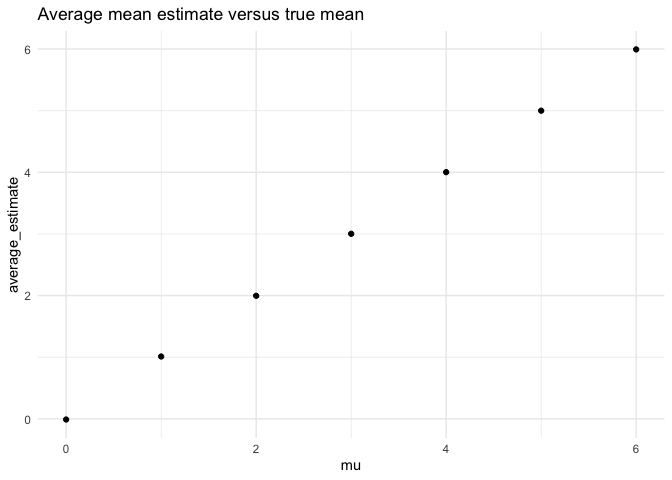
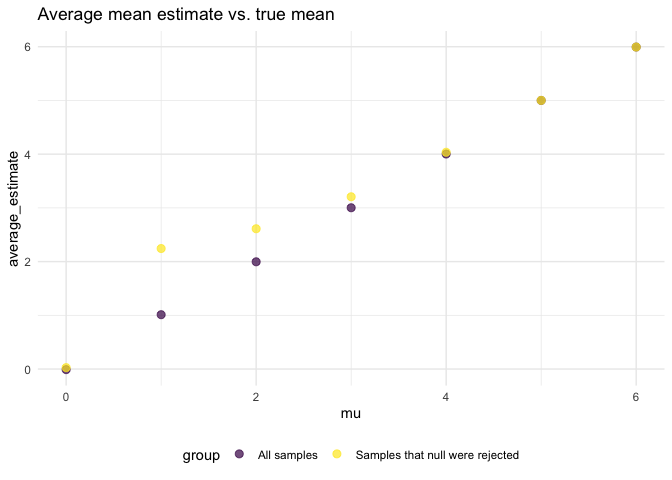
problem 3 - overlay the last two plots, add descriptions and explanation.

diff --git a/p8105_hw5_ym2770.md b/p8105_hw5_ym2770.md
@@ -175,7 +175,7 @@ sim_df =
   bind_rows(sim_repeat_df)
 ```
 
-plot of null hypothesis rejection proportion against mu
+Plot null hypothesis rejection proportion against mu
 
 ``` r
 sim_df %>% 
@@ -191,37 +191,58 @@ sim_df %>%
 
 ![](p8105_hw5_ym2770_files/figure-gfm/unnamed-chunk-11-1.png)<!-- -->
 
-A plot showing the average estimate of mean against the true mean
+Power increases while effect size increases, generating a sigmoidal
+curve.
+
+Plot the average estimate of mean against the true mean, overlaying the
+plot showing the the comparison only in samples for which the null was
+rejected
 
 ``` r
-sim_df %>% 
+df1 = 
+  sim_df %>% 
   group_by(mu) %>% 
-  summarise(average_estimate = mean(estimate)) %>% 
-  ggplot(aes(x = mu, y = average_estimate)) +
-  geom_point() +
-  labs(title = "Average mean estimate versus true mean")
+  summarise(
+    average_estimate = mean(estimate),
+    group = "All samples"
+    ) 
 ```
 
     ## `summarise()` ungrouping output (override with `.groups` argument)
+
+``` r
+df2 = 
+  sim_df %>% 
+  filter(p.value < 0.05) %>% 
+  group_by(mu) %>% 
+  summarise(
+    average_estimate = mean(estimate),
+    group = "Samples that null were rejected"
+    )
+```
+
+    ## `summarise()` ungrouping output (override with `.groups` argument)
+
+``` r
+df1 %>% 
+  rbind(df2) %>% 
+  ggplot(aes(x = mu, y = average_estimate, color = group)) +
+  geom_point(alpha = .7, size = 2.5) +
+  labs(title = "Average mean estimate vs. true mean")
+```
 
 ![](p8105_hw5_ym2770_files/figure-gfm/unnamed-chunk-12-1.png)<!-- -->
 
-A plot showing the average estimate of mean against the true mean only
-in samples for which the null was rejected.
+For those that null is rejected, the average mean estimates are higher
+than the true means among the samples with true means from 1 to 3, and
+the closer the true mean to 0, the more the extent of that deviation is.
+Starting from true value of 4, the estimates are about the same as the
+true means.
 
-``` r
-sim_df %>% 
-  filter(p.value < 0.05) %>% 
-  group_by(mu) %>% 
-  summarise(average_estimate = mean(estimate)) %>% 
-  ggplot(aes(x = mu, y = average_estimate)) +
-  geom_point() +
-  labs(title = "Average mean estimate vs. true mean among samples that null was rejected")
-```
-
-    ## `summarise()` ungrouping output (override with `.groups` argument)
-
-![](p8105_hw5_ym2770_files/figure-gfm/unnamed-chunk-13-1.png)<!-- -->
-
-Is the sample average of μ̂ across tests for which the null is rejected
-approximately equal to the true value of μ? Why or why not?
+For those samples for which true values are close to 0, it is more
+likely to draw a sample with mean estimate close to 0 and thus more
+likely to retain null hypothesis. Hence, among those samples, samples
+for which estimate is higher than the true mean, i.e. farther from 0,
+will be more likely to reject null hypothesis. That is why for true
+values from 1 to 3, the average mean estimates are higher than the true
+means.
